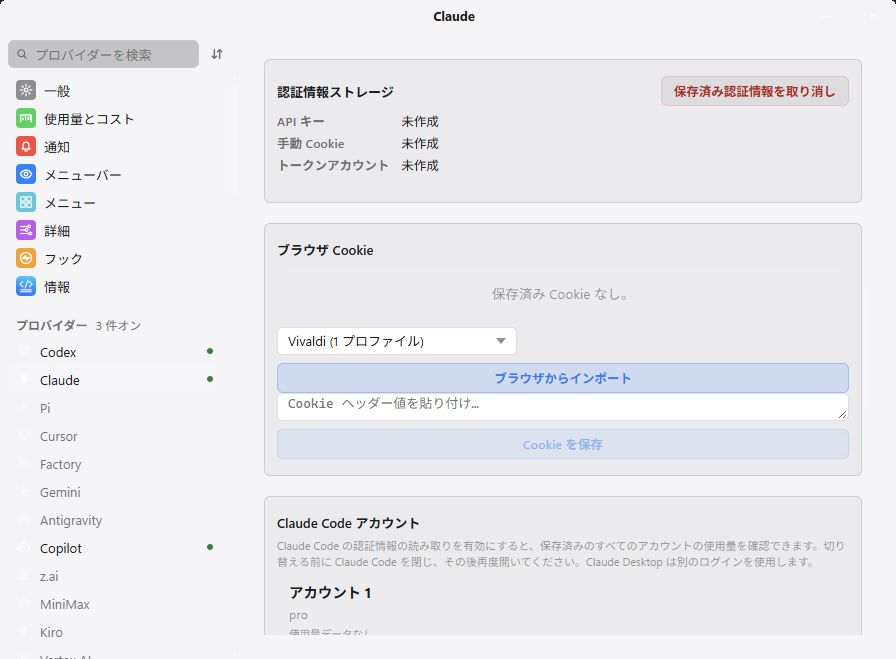
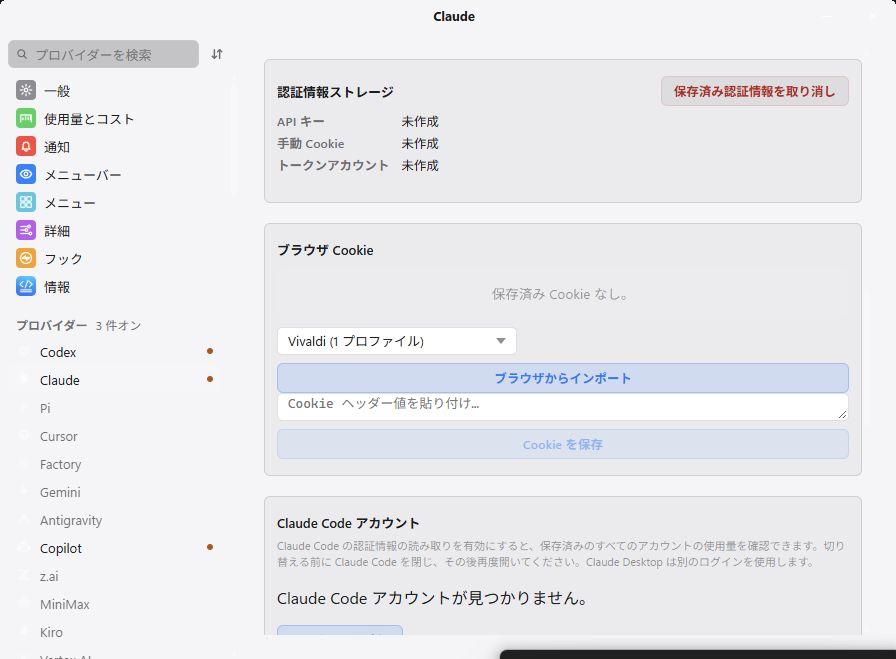
docs: verify Vivaldi in the published EXE

Changed region(s): [[0.3125, 0.8801, 0.625, 0.9712], [0.5312, 0.9712, 1.0, 1.0]]

diff --git a/docs/releases/v0.70.3.md b/docs/releases/v0.70.3.md
@@ -9,7 +9,11 @@ Vivaldi now appears as a separate browser choice in **Settings → provider → 
 
 ![Vivaldi selected in native Windows settings](../images/mobile-connect/windows-v0.70.3-vivaldi-ja.jpg)
 
-The native Windows screenshot was captured after a fresh local Tauri rebuild, using an isolated proof profile. The installed Vivaldi standard profile was detected and the `vivaldi` choice selected; no real account cookies were imported for this screenshot.
+The native Windows screenshot was captured from the downloaded **published v0.70.3 EXE**, using an isolated proof profile with synthetic usage and an empty account list. The installed Vivaldi standard profile was detected and the `vivaldi` choice selected; no real account cookies were imported. The proof window was restored into a clear area through its separate saved geometry, without taking foreground focus or changing app permissions.
+
[1 lines of base64/hex data omitted]
+
+Local verification passed 4,178 core, one CLI and 715 Tauri tests, workspace clippy, formatting, locale parity, release-pipeline checks and the Tauri production-frontend/debug-native build. The real-account Cookie extraction test was deliberately skipped locally. Local full Vitest runs had one timeout in the unchanged Hooks stress test (1,109/1,110 passed); its focused 14-test run and hosted full frontend suite passed. No real-account Vivaldi import or physical tablet test is claimed by these checks.
 
 App-Bound (`v20`) cookies remain unsupported; the app explains the limitation and keeps the existing manual Cookie-header fallback. Custom standalone profile locations are not automatically discovered. Sign in to the service in Vivaldi before importing. Existing Windows/Android pairing and saved settings are retained; Android v0.9.7 works with this release.
 

diff --git a/README.tr-TR.md b/README.tr-TR.md
@@ -14,7 +14,7 @@ Ayrıntılar, mevcutsa PC'nin yerel günlüklerinden bugün, son 30 gün ve seç
 
 v0.70.3 ile standart Windows profillerinden çerez aktarımı için Vivaldi ayrı bir seçenek olarak görünür. [Kurulum ve şifreleme sınırları](docs/COOKIES.md).
 
-![Windows v0.70.3 içinde Vivaldi seçimi](docs/images/mobile-connect/windows-v0.70.3-vivaldi-ja.jpg)
+![Yayımlanan v0.70.3 EXE içinde Vivaldi seçimi](docs/images/mobile-connect/windows-v0.70.3-vivaldi-ja.jpg)
 
 ![Gerçek Windows paylaşım ayarları](docs/images/mobile-connect/windows-release-v0.70.2-sharing-ja.jpg)
 

diff --git a/README.es-MX.md b/README.es-MX.md
@@ -14,7 +14,7 @@ Los detalles muestran tokens y costos estimados en USD de los registros locales 
 
 Desde v0.70.3, Vivaldi aparece como opción propia para importar cookies desde sus perfiles estándar de Windows. [Configuración y límites de cifrado](docs/COOKIES.md).
 
-![Vivaldi seleccionado en Windows v0.70.3](docs/images/mobile-connect/windows-v0.70.3-vivaldi-ja.jpg)
+![Vivaldi seleccionado en el EXE publicado v0.70.3](docs/images/mobile-connect/windows-v0.70.3-vivaldi-ja.jpg)
 
 ![Configuración real de Windows](docs/images/mobile-connect/windows-release-v0.70.2-sharing-ja.jpg)
 

diff --git a/README.pt-BR.md b/README.pt-BR.md
@@ -14,7 +14,7 @@ Os detalhes mostram tokens e custos estimados em USD dos logs locais do PC, quan
 
 Desde a v0.70.3, o Vivaldi aparece como uma opção própria para importar cookies dos perfis padrão do Windows. [Configuração e limites de criptografia](docs/COOKIES.md).
 
-![Vivaldi selecionado no Windows v0.70.3](docs/images/mobile-connect/windows-v0.70.3-vivaldi-ja.jpg)
+![Vivaldi selecionado no EXE publicado v0.70.3](docs/images/mobile-connect/windows-v0.70.3-vivaldi-ja.jpg)
 
 ![Configuração real do Windows](docs/images/mobile-connect/windows-release-v0.70.2-sharing-ja.jpg)
 

diff --git a/README.ko-KR.md b/README.ko-KR.md
@@ -14,7 +14,7 @@ PC의 로컬 로그에서 확인되는 오늘, 최근 30일 및 선택 기간의
 
 v0.70.3부터 기본 Windows 프로필의 쿠키를 가져올 때 Vivaldi를 별도로 선택할 수 있습니다. [설정 및 암호화 제한](docs/COOKIES.md).
 
-![Windows v0.70.3에서 Vivaldi 선택](docs/images/mobile-connect/windows-v0.70.3-vivaldi-ja.jpg)
+![배포된 v0.70.3 EXE에서 Vivaldi 선택](docs/images/mobile-connect/windows-v0.70.3-vivaldi-ja.jpg)
 
 ![실제 Windows 공유 설정](docs/images/mobile-connect/windows-release-v0.70.2-sharing-ja.jpg)
 

diff --git a/README.zh-CN.md b/README.zh-CN.md
@@ -12,7 +12,7 @@ Android 0.9.7可选择手机采集或Windows采集，并设置个别服务的手
 
 从v0.70.3起，可单独选择Vivaldi，导入Windows标准配置文件中的Cookie。[设置与加密限制](docs/COOKIES.md)。
 
-![Windows v0.70.3中选择Vivaldi](docs/images/mobile-connect/windows-v0.70.3-vivaldi-ja.jpg)
+![已发布v0.70.3 EXE中选择Vivaldi](docs/images/mobile-connect/windows-v0.70.3-vivaldi-ja.jpg)
 
 ![Windows共享设置实拍](docs/images/mobile-connect/windows-release-v0.70.2-sharing-ja.jpg)
 

diff --git a/README.zh-TW.md b/README.zh-TW.md
@@ -12,7 +12,7 @@ Android 0.9.7可選手機收集或Windows收集，並設定個別服務的手機
 
 從v0.70.3起，可單獨選擇Vivaldi，匯入Windows標準設定檔中的Cookie。[設定與加密限制](docs/COOKIES.md)。
 
-![Windows v0.70.3中選擇Vivaldi](docs/images/mobile-connect/windows-v0.70.3-vivaldi-ja.jpg)
+![已發布v0.70.3 EXE中選擇Vivaldi](docs/images/mobile-connect/windows-v0.70.3-vivaldi-ja.jpg)
 
 ![Windows共用設定實拍](docs/images/mobile-connect/windows-release-v0.70.2-sharing-ja.jpg)
 

diff --git a/README.md b/README.md
@@ -27,7 +27,7 @@ The original collectors, tray, history, notifications, themes and provider setti
 
 [v0.70.3 Vivaldi changes](docs/releases/v0.70.3.md) · [Browser import setup and encryption limits](docs/COOKIES.md)
 
-![Vivaldi selected in the native v0.70.3 Windows settings](docs/images/mobile-connect/windows-v0.70.3-vivaldi-ja.jpg)
+![Vivaldi selected in the published v0.70.3 Windows EXE](docs/images/mobile-connect/windows-v0.70.3-vivaldi-ja.jpg)
 
 ## Connect
 

diff --git a/README.ja-JP.md b/README.ja-JP.md
@@ -25,7 +25,7 @@ Windows版は**署名なし**です。元プロジェクトの署名証明書や
 
 [v0.70.3のVivaldi対応](docs/releases/v0.70.3.md) · [ブラウザー取込の設定と暗号化の制約](docs/COOKIES.md)
 
-![Windows版v0.70.3でVivaldiを選択](docs/images/mobile-connect/windows-v0.70.3-vivaldi-ja.jpg)
+![公開EXE v0.70.3でVivaldiを選択](docs/images/mobile-connect/windows-v0.70.3-vivaldi-ja.jpg)
 
 ## スマホとの接続
 
